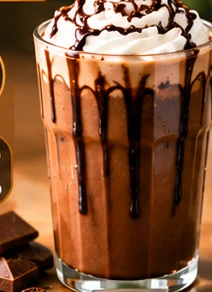
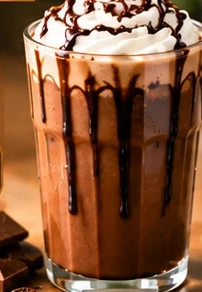
Fix image proportions: portrait photos for 20 landscape recipes, crop sheet artifacts, bump cache v12
Claude-Session: https://claude.ai/code/session_014cvqrTYUC7mZuBcgqQ8Jmv

diff --git a/index.html b/index.html
@@ -453,16 +453,16 @@ const R = [
    ing:[['สตรอว์เบอร์รีสด',80,'ก.'],['โซดาแช่เย็น',150,'มล.'],['น้ำมะนาว',15,'มล.'],['น้ำเชื่อม',15,'มล.'],['น้ำแข็ง',150,'ก.'],['เบอร์รีรวมสำหรับตกแต่ง',20,'ก.'],['ใบสะระแหน่',2,'ใบ']],
    steps:['บดสตรอว์เบอร์รีกับน้ำเชื่อม','เติมน้ำมะนาวและน้ำแข็งลงแก้ว','ค่อย ๆ เทโซดาเย็น','แต่งด้วยสตรอว์เบอร์รี เบอร์รีรวม และใบสะระแหน่'],photo:'strawberry-soda'},
 
-{"cat": "coffee", "th": "กาแฟครีมชีส", "en": "Cream Cheese Coffee", "time": "8 นาที", "level": "ปานกลาง", "eq": "E", "temp": "iced", "color": "#563521", "top": "#E4C4A7", "spec": "กาแฟเย็นเข้มข้น + ครีมชีสโฟม + ผงโกโก้", "photo": "cream-cheese-coffee", "ing": [["เอสเปรสโซช็อตคู่", 36, "ก."], ["น้ำเย็น", 100, "มล."], ["น้ำแข็ง", 130, "ก."], ["ครีมชีส", 30, "ก."], ["วิปปิงครีม", 40, "มล."], ["นมสด", 20, "มล."], ["น้ำตาลไอซิง", 10, "ก."], ["ผงโกโก้สำหรับโรย", 2, "ก."]], "steps": ["ตีครีมชีส วิปปิงครีม นม และน้ำตาลไอซิงให้ข้นเป็นโฟมนุ่ม", "เติมน้ำแข็งและน้ำเย็นลงแก้ว เทเอสเปรสโซลงไป", "ราดครีมชีสโฟมด้านบน แล้วโรยผงโกโก้ก่อนเสิร์ฟ"]},
-{"cat": "coffee", "th": "เอสเปรสโซโทนิคเลมอน", "en": "Lemon Rosemary Espresso Tonic", "time": "5 นาที", "level": "ง่าย", "eq": "E", "temp": "iced", "color": "#72522E", "top": "#D7B886", "spec": "เอสเปรสโซ + โทนิค + เลมอน + โรสแมรี", "photo": "lemon-rosemary-tonic", "ing": [["เอสเปรสโซช็อตคู่", 36, "ก."], ["โทนิคแช่เย็น", 150, "มล."], ["น้ำแข็ง", 130, "ก."], ["เลมอนฝาน", 1, "ชิ้น"], ["โรสแมรี", 1, "ก้าน"]], "steps": ["เติมน้ำแข็งลงแก้วใส", "เติมโทนิคเย็น แล้วใส่เลมอนฝาน", "สกัดเอสเปรสโซแล้วราดช้า ๆ ให้เกิดชั้นกาแฟด้านบน", "ตกแต่งด้วยก้านโรสแมรีก่อนเสิร์ฟ"]},
-{"cat": "blend", "th": "สตรอว์เบอร์รีนมสดปั่น", "en": "Strawberry Milkshake", "time": "5 นาที", "level": "ง่าย", "eq": "B", "temp": "blend", "color": "#D25B68", "top": "#F5C0BC", "spec": "สตรอว์เบอร์รี + นมสด + วิปครีม", "photo": "strawberry-milkshake", "ing": [["สตรอว์เบอร์รีสด", 120, "ก."], ["นมสด", 170, "มล."], ["น้ำแข็ง", 120, "ก."], ["น้ำเชื่อม", 15, "มล."], ["วิปครีม", 30, "ก."], ["สตรอว์เบอร์รีสำหรับตกแต่ง", 30, "ก."]], "steps": ["ปั่นสตรอว์เบอร์รี นม น้ำแข็ง และน้ำเชื่อมจนเนียน", "เทใส่แก้วให้ได้สีชมพูสลับนม", "บีบวิปครีมและตกแต่งด้วยสตรอว์เบอร์รีหั่นชิ้น"]},
-{"cat": "blend", "th": "ช็อกโกแลตกล้วยปั่น", "en": "Chocolate Banana Frappé", "time": "5 นาที", "level": "ง่าย", "eq": "B", "temp": "blend", "color": "#6A4639", "top": "#C5A07E", "spec": "กล้วยหอม + ช็อกโกแลต + นม + วิปครีม", "photo": "chocolate-banana-frappe", "ing": [["กล้วยหอม", 1, "ลูก"], ["ผงโกโก้", 15, "ก."], ["นมสด", 160, "มล."], ["ซอสช็อกโกแลต", 25, "ก."], ["น้ำแข็ง", 160, "ก."], ["วิปครีม", 25, "ก."], ["กล้วยหอมหั่นแว่นสำหรับตกแต่ง", 3, "ชิ้น"]], "steps": ["ปั่นกล้วยหอม โกโก้ นม ซอสช็อกโกแลต และน้ำแข็งจนข้นเนียน", "เทใส่แก้ว", "บีบวิปครีมและราดซอสช็อกโกแลต ตกแต่งด้วยกล้วยหั่นแว่น"]},
-{"cat": "soda", "th": "เสาวรสโซดา", "en": "Passion Fruit Soda", "time": "4 นาที", "level": "ง่าย", "eq": "N", "temp": "iced", "color": "#E8AC35", "top": "#F4D27B", "spec": "เสาวรส + โซดา + น้ำแข็ง + สะระแหน่", "photo": "passionfruit-soda", "ing": [["เนื้อเสาวรสสดพร้อมเมล็ด", 70, "ก."], ["โซดาแช่เย็น", 160, "มล."], ["น้ำเชื่อม", 15, "มล."], ["น้ำแข็ง", 150, "ก."], ["ใบสะระแหน่", 2, "ใบ"]], "steps": ["ใส่เนื้อเสาวรสและน้ำเชื่อมลงแก้ว", "เติมน้ำแข็งให้เต็มแก้ว", "รินโซดาเย็นลงไปช้า ๆ แล้วแต่งด้วยสะระแหน่"]},
-{"cat": "tea", "th": "ชาไทยครีมชีส", "en": "Thai Tea Cheese Foam", "time": "9 นาที", "level": "ปานกลาง", "eq": "N", "temp": "iced", "color": "#C87A36", "top": "#F6D2A2", "spec": "ชาไทยเย็นเข้มข้น + ครีมชีสโฟม", "photo": "thai-cheese-tea", "ing": [["ผงชาไทย", 20, "ก."], ["น้ำร้อน", 150, "มล."], ["นมข้นหวาน", 25, "ก."], ["น้ำแข็ง", 150, "ก."], ["ครีมชีส", 25, "ก."], ["วิปปิงครีม", 35, "มล."], ["นมสด", 15, "มล."], ["ผงชาไทยสำหรับโรย", 1, "ก."]], "steps": ["แช่ผงชาไทยในน้ำร้อน 4–5 นาทีแล้วกรอง", "ผสมนมข้นหวานลงในชา คนให้เข้ากันและพักให้คลายร้อน", "ตีครีมชีส วิปปิงครีม และนมสดจนข้นเป็นโฟม", "ใส่น้ำแข็ง เติมชาไทย ราดครีมชีสโฟมและโรยผงชาไทยบาง ๆ"]},
-{"cat": "tea", "th": "นมเผือกเย็น", "en": "Iced Taro Milk", "time": "5 นาที", "level": "ง่าย", "eq": "N", "temp": "iced", "color": "#AD8AC8", "top": "#E4D2EF", "spec": "เผือกบด + นมสด + น้ำแข็ง", "photo": "taro-milk", "ing": [["เผือกนึ่งสุกบดละเอียด", 80, "ก."], ["นมสด", 180, "มล."], ["น้ำเชื่อม", 15, "มล."], ["น้ำแข็ง", 150, "ก."]], "steps": ["นึ่งเผือกจนสุกนิ่ม บดให้ละเอียดและพักให้เย็น", "ผสมเผือกบดกับนมสดและน้ำเชื่อมให้เนียน", "เติมน้ำแข็งลงแก้วแล้วราดนมเผือกลงไป", "คนก่อนดื่มเพื่อให้เนื้อเผือกกระจายทั่วแก้ว"], "tip": "สีม่วงอ่อนตามธรรมชาติของเผือกแต่ละพันธุ์อาจต่างกัน ภาพประกอบเป็นภาพตัวอย่างการตกแต่ง"},
-{"cat": "tea", "th": "ชามะนาวน้ำผึ้ง", "en": "Honey Lemon Iced Tea", "time": "6 นาที", "level": "ง่าย", "eq": "N", "temp": "iced", "color": "#BE8A37", "top": "#F8D989", "spec": "ชาดำ + น้ำผึ้ง + มะนาว + สะระแหน่", "photo": "honey-lemon-tea", "ing": [["ชาดำ", 5, "ก."], ["น้ำร้อน", 150, "มล."], ["น้ำผึ้ง", 20, "มล."], ["น้ำมะนาว", 20, "มล."], ["น้ำแข็ง", 150, "ก."], ["เลมอนฝาน", 1, "ชิ้น"], ["ใบสะระแหน่", 2, "ใบ"]], "steps": ["ชงชาดำในน้ำร้อน 3–4 นาที แล้วกรอง", "ขณะชายังอุ่น เติมน้ำผึ้งและคนให้ละลาย", "ปล่อยให้ชาเย็นลงแล้วเติมน้ำมะนาว", "เทลงแก้วน้ำแข็ง แต่งด้วยเลมอนฝานและสะระแหน่"]},
-{"cat": "blend", "th": "โกโก้มินต์ปั่น", "en": "Mint Cocoa Frappé", "time": "5 นาที", "level": "ง่าย", "eq": "B", "temp": "blend", "color": "#6B4E3F", "top": "#D3B7A2", "spec": "โกโก้ + มินต์ + นม + วิปครีม", "photo": "mint-chocolate-frappe", "ing": [["ผงโกโก้", 20, "ก."], ["น้ำร้อน", 30, "มล."], ["นมสด", 150, "มล."], ["ไซรัปมินต์", 15, "มล."], ["น้ำแข็ง", 180, "ก."], ["วิปครีม", 25, "ก."], ["ใบสะระแหน่สำหรับตกแต่ง", 2, "ใบ"]], "steps": ["ละลายผงโกโก้กับน้ำร้อน แล้วพักให้เย็น", "ปั่นโกโก้ นม ไซรัปมินต์ และน้ำแข็งจนข้น", "เทใส่แก้ว บีบวิปครีมและแต่งด้วยใบสะระแหน่"]},
-{"cat": "soda", "th": "ลิ้นจี่โซดา", "en": "Lychee Soda", "time": "4 นาที", "level": "ง่าย", "eq": "N", "temp": "iced", "color": "#E69AB9", "top": "#F5CEE0", "spec": "ลิ้นจี่ + โซดา + น้ำแข็ง + มะนาว", "photo": "lychee-soda", "ing": [["เนื้อลิ้นจี่", 70, "ก."], ["น้ำลิ้นจี่", 40, "มล."], ["โซดาแช่เย็น", 150, "มล."], ["น้ำมะนาว", 10, "มล."], ["น้ำแข็ง", 150, "ก."], ["ใบสะระแหน่", 2, "ใบ"]], "steps": ["ใส่เนื้อลิ้นจี่และน้ำลิ้นจี่ลงแก้ว", "เติมน้ำแข็งและน้ำมะนาว", "รินโซดาเย็นลงช้า ๆ ให้เกิดฟอง", "ตกแต่งด้วยลิ้นจี่และใบสะระแหน่"]}
+{"cat": "coffee", "th": "กาแฟครีมชีส", "en": "Cream Cheese Coffee", "time": "8 นาที", "level": "ปานกลาง", "eq": "E", "temp": "iced", "color": "#563521", "top": "#E4C4A7", "spec": "กาแฟเย็นเข้มข้น + ครีมชีสโฟม + ผงโกโก้", "photo": "cream-cheese-coffee-portrait", "ing": [["เอสเปรสโซช็อตคู่", 36, "ก."], ["น้ำเย็น", 100, "มล."], ["น้ำแข็ง", 130, "ก."], ["ครีมชีส", 30, "ก."], ["วิปปิงครีม", 40, "มล."], ["นมสด", 20, "มล."], ["น้ำตาลไอซิง", 10, "ก."], ["ผงโกโก้สำหรับโรย", 2, "ก."]], "steps": ["ตีครีมชีส วิปปิงครีม นม และน้ำตาลไอซิงให้ข้นเป็นโฟมนุ่ม", "เติมน้ำแข็งและน้ำเย็นลงแก้ว เทเอสเปรสโซลงไป", "ราดครีมชีสโฟมด้านบน แล้วโรยผงโกโก้ก่อนเสิร์ฟ"]},
+{"cat": "coffee", "th": "เอสเปรสโซโทนิคเลมอน", "en": "Lemon Rosemary Espresso Tonic", "time": "5 นาที", "level": "ง่าย", "eq": "E", "temp": "iced", "color": "#72522E", "top": "#D7B886", "spec": "เอสเปรสโซ + โทนิค + เลมอน + โรสแมรี", "photo": "lemon-rosemary-tonic-portrait", "ing": [["เอสเปรสโซช็อตคู่", 36, "ก."], ["โทนิคแช่เย็น", 150, "มล."], ["น้ำแข็ง", 130, "ก."], ["เลมอนฝาน", 1, "ชิ้น"], ["โรสแมรี", 1, "ก้าน"]], "steps": ["เติมน้ำแข็งลงแก้วใส", "เติมโทนิคเย็น แล้วใส่เลมอนฝาน", "สกัดเอสเปรสโซแล้วราดช้า ๆ ให้เกิดชั้นกาแฟด้านบน", "ตกแต่งด้วยก้านโรสแมรีก่อนเสิร์ฟ"]},
+{"cat": "blend", "th": "สตรอว์เบอร์รีนมสดปั่น", "en": "Strawberry Milkshake", "time": "5 นาที", "level": "ง่าย", "eq": "B", "temp": "blend", "color": "#D25B68", "top": "#F5C0BC", "spec": "สตรอว์เบอร์รี + นมสด + วิปครีม", "photo": "strawberry-milkshake-portrait", "ing": [["สตรอว์เบอร์รีสด", 120, "ก."], ["นมสด", 170, "มล."], ["น้ำแข็ง", 120, "ก."], ["น้ำเชื่อม", 15, "มล."], ["วิปครีม", 30, "ก."], ["สตรอว์เบอร์รีสำหรับตกแต่ง", 30, "ก."]], "steps": ["ปั่นสตรอว์เบอร์รี นม น้ำแข็ง และน้ำเชื่อมจนเนียน", "เทใส่แก้วให้ได้สีชมพูสลับนม", "บีบวิปครีมและตกแต่งด้วยสตรอว์เบอร์รีหั่นชิ้น"]},
+{"cat": "blend", "th": "ช็อกโกแลตกล้วยปั่น", "en": "Chocolate Banana Frappé", "time": "5 นาที", "level": "ง่าย", "eq": "B", "temp": "blend", "color": "#6A4639", "top": "#C5A07E", "spec": "กล้วยหอม + ช็อกโกแลต + นม + วิปครีม", "photo": "chocolate-banana-frappe-portrait", "ing": [["กล้วยหอม", 1, "ลูก"], ["ผงโกโก้", 15, "ก."], ["นมสด", 160, "มล."], ["ซอสช็อกโกแลต", 25, "ก."], ["น้ำแข็ง", 160, "ก."], ["วิปครีม", 25, "ก."], ["กล้วยหอมหั่นแว่นสำหรับตกแต่ง", 3, "ชิ้น"]], "steps": ["ปั่นกล้วยหอม โกโก้ นม ซอสช็อกโกแลต และน้ำแข็งจนข้นเนียน", "เทใส่แก้ว", "บีบวิปครีมและราดซอสช็อกโกแลต ตกแต่งด้วยกล้วยหั่นแว่น"]},
+{"cat": "soda", "th": "เสาวรสโซดา", "en": "Passion Fruit Soda", "time": "4 นาที", "level": "ง่าย", "eq": "N", "temp": "iced", "color": "#E8AC35", "top": "#F4D27B", "spec": "เสาวรส + โซดา + น้ำแข็ง + สะระแหน่", "photo": "passionfruit-soda-portrait", "ing": [["เนื้อเสาวรสสดพร้อมเมล็ด", 70, "ก."], ["โซดาแช่เย็น", 160, "มล."], ["น้ำเชื่อม", 15, "มล."], ["น้ำแข็ง", 150, "ก."], ["ใบสะระแหน่", 2, "ใบ"]], "steps": ["ใส่เนื้อเสาวรสและน้ำเชื่อมลงแก้ว", "เติมน้ำแข็งให้เต็มแก้ว", "รินโซดาเย็นลงไปช้า ๆ แล้วแต่งด้วยสะระแหน่"]},
+{"cat": "tea", "th": "ชาไทยครีมชีส", "en": "Thai Tea Cheese Foam", "time": "9 นาที", "level": "ปานกลาง", "eq": "N", "temp": "iced", "color": "#C87A36", "top": "#F6D2A2", "spec": "ชาไทยเย็นเข้มข้น + ครีมชีสโฟม", "photo": "thai-cheese-tea-portrait", "ing": [["ผงชาไทย", 20, "ก."], ["น้ำร้อน", 150, "มล."], ["นมข้นหวาน", 25, "ก."], ["น้ำแข็ง", 150, "ก."], ["ครีมชีส", 25, "ก."], ["วิปปิงครีม", 35, "มล."], ["นมสด", 15, "มล."], ["ผงชาไทยสำหรับโรย", 1, "ก."]], "steps": ["แช่ผงชาไทยในน้ำร้อน 4–5 นาทีแล้วกรอง", "ผสมนมข้นหวานลงในชา คนให้เข้ากันและพักให้คลายร้อน", "ตีครีมชีส วิปปิงครีม และนมสดจนข้นเป็นโฟม", "ใส่น้ำแข็ง เติมชาไทย ราดครีมชีสโฟมและโรยผงชาไทยบาง ๆ"]},
+{"cat": "tea", "th": "นมเผือกเย็น", "en": "Iced Taro Milk", "time": "5 นาที", "level": "ง่าย", "eq": "N", "temp": "iced", "color": "#AD8AC8", "top": "#E4D2EF", "spec": "เผือกบด + นมสด + น้ำแข็ง", "photo": "taro-milk-portrait", "ing": [["เผือกนึ่งสุกบดละเอียด", 80, "ก."], ["นมสด", 180, "มล."], ["น้ำเชื่อม", 15, "มล."], ["น้ำแข็ง", 150, "ก."]], "steps": ["นึ่งเผือกจนสุกนิ่ม บดให้ละเอียดและพักให้เย็น", "ผสมเผือกบดกับนมสดและน้ำเชื่อมให้เนียน", "เติมน้ำแข็งลงแก้วแล้วราดนมเผือกลงไป", "คนก่อนดื่มเพื่อให้เนื้อเผือกกระจายทั่วแก้ว"], "tip": "สีม่วงอ่อนตามธรรมชาติของเผือกแต่ละพันธุ์อาจต่างกัน ภาพประกอบเป็นภาพตัวอย่างการตกแต่ง"},
+{"cat": "tea", "th": "ชามะนาวน้ำผึ้ง", "en": "Honey Lemon Iced Tea", "time": "6 นาที", "level": "ง่าย", "eq": "N", "temp": "iced", "color": "#BE8A37", "top": "#F8D989", "spec": "ชาดำ + น้ำผึ้ง + มะนาว + สะระแหน่", "photo": "honey-lemon-tea-portrait", "ing": [["ชาดำ", 5, "ก."], ["น้ำร้อน", 150, "มล."], ["น้ำผึ้ง", 20, "มล."], ["น้ำมะนาว", 20, "มล."], ["น้ำแข็ง", 150, "ก."], ["เลมอนฝาน", 1, "ชิ้น"], ["ใบสะระแหน่", 2, "ใบ"]], "steps": ["ชงชาดำในน้ำร้อน 3–4 นาที แล้วกรอง", "ขณะชายังอุ่น เติมน้ำผึ้งและคนให้ละลาย", "ปล่อยให้ชาเย็นลงแล้วเติมน้ำมะนาว", "เทลงแก้วน้ำแข็ง แต่งด้วยเลมอนฝานและสะระแหน่"]},
+{"cat": "blend", "th": "โกโก้มินต์ปั่น", "en": "Mint Cocoa Frappé", "time": "5 นาที", "level": "ง่าย", "eq": "B", "temp": "blend", "color": "#6B4E3F", "top": "#D3B7A2", "spec": "โกโก้ + มินต์ + นม + วิปครีม", "photo": "mint-chocolate-frappe-portrait", "ing": [["ผงโกโก้", 20, "ก."], ["น้ำร้อน", 30, "มล."], ["นมสด", 150, "มล."], ["ไซรัปมินต์", 15, "มล."], ["น้ำแข็ง", 180, "ก."], ["วิปครีม", 25, "ก."], ["ใบสะระแหน่สำหรับตกแต่ง", 2, "ใบ"]], "steps": ["ละลายผงโกโก้กับน้ำร้อน แล้วพักให้เย็น", "ปั่นโกโก้ นม ไซรัปมินต์ และน้ำแข็งจนข้น", "เทใส่แก้ว บีบวิปครีมและแต่งด้วยใบสะระแหน่"]},
+{"cat": "soda", "th": "ลิ้นจี่โซดา", "en": "Lychee Soda", "time": "4 นาที", "level": "ง่าย", "eq": "N", "temp": "iced", "color": "#E69AB9", "top": "#F5CEE0", "spec": "ลิ้นจี่ + โซดา + น้ำแข็ง + มะนาว", "photo": "lychee-soda-portrait", "ing": [["เนื้อลิ้นจี่", 70, "ก."], ["น้ำลิ้นจี่", 40, "มล."], ["โซดาแช่เย็น", 150, "มล."], ["น้ำมะนาว", 10, "มล."], ["น้ำแข็ง", 150, "ก."], ["ใบสะระแหน่", 2, "ใบ"]], "steps": ["ใส่เนื้อลิ้นจี่และน้ำลิ้นจี่ลงแก้ว", "เติมน้ำแข็งและน้ำมะนาว", "รินโซดาเย็นลงช้า ๆ ให้เกิดฟอง", "ตกแต่งด้วยลิ้นจี่และใบสะระแหน่"]}
 
 ].map((r, i) => ({ ...r, id: i + 1, unit: r.unit || 'แก้ว' }));
 
@@ -475,9 +475,9 @@ let favs = new Set(store.get('favs', []));
 let myEq = store.get('myEq', []);
 
 const ORIGINAL_IMAGE_MAP = {"1": "assets/drinks/espresso.webp", "3": "assets/drinks/cappuccino.webp", "4": "assets/drinks/latte-hot.webp", "7": "assets/drinks/caramel-macchiato.webp", "15": "assets/drinks/thai-milk-tea.webp", "16": "assets/drinks/matcha-latte.webp"};
-const NEW_PHOTO_MAP = {"2": "assets/drinks/americano-hot.webp", "5": "assets/drinks/flat-white.webp", "6": "assets/drinks/mocha-hot.webp", "8": "assets/drinks/espresso-tonic.webp", "9": "assets/drinks/dirty-coffee.webp", "10": "assets/drinks/coconut-americano.webp", "11": "assets/drinks/affogato.webp", "12": "assets/drinks/cold-brew.webp", "13": "assets/drinks/pour-over.webp", "14": "assets/drinks/thai-iced-coffee.webp", "17": "assets/drinks/matcha-dirty.webp", "18": "assets/drinks/hojicha-latte.webp", "19": "assets/drinks/london-fog.webp", "20": "assets/drinks/chai-latte.webp", "21": "assets/drinks/iced-lemon-tea.webp", "22": "assets/drinks/peach-oolong.webp", "23": "assets/drinks/mocha-frappe.webp", "24": "assets/drinks/caramel-frappe.webp", "25": "assets/drinks/matcha-frappe-photo-v11.webp", "26": "assets/drinks/cocoa-frappe-photo-v11.webp", "27": "assets/drinks/mango-smoothie-photo-v11.webp", "28": "assets/drinks/strawberry-banana-photo-v11.webp", "29": "assets/drinks/coffee-banana-photo-v11.webp", "30": "assets/drinks/avocado-coffee-photo-v11.webp"};
+const NEW_PHOTO_MAP = {"2": "assets/drinks/americano-hot-portrait.webp", "5": "assets/drinks/flat-white-portrait.webp", "6": "assets/drinks/mocha-hot-portrait.webp", "8": "assets/drinks/espresso-tonic-portrait.webp", "9": "assets/drinks/dirty-coffee-portrait.webp", "10": "assets/drinks/coconut-americano-portrait.webp", "11": "assets/drinks/affogato-portrait.webp", "12": "assets/drinks/cold-brew-portrait.webp", "13": "assets/drinks/pour-over-portrait.webp", "14": "assets/drinks/thai-iced-coffee-portrait.webp", "17": "assets/drinks/matcha-dirty.webp", "18": "assets/drinks/hojicha-latte.webp", "19": "assets/drinks/london-fog.webp", "20": "assets/drinks/chai-latte.webp", "21": "assets/drinks/iced-lemon-tea.webp", "22": "assets/drinks/peach-oolong.webp", "23": "assets/drinks/mocha-frappe.webp", "24": "assets/drinks/caramel-frappe.webp", "25": "assets/drinks/matcha-frappe-photo-v11.webp", "26": "assets/drinks/cocoa-frappe-photo-v11.webp", "27": "assets/drinks/mango-smoothie-photo-v11.webp", "28": "assets/drinks/strawberry-banana-photo-v11.webp", "29": "assets/drinks/coffee-banana-photo-v11.webp", "30": "assets/drinks/avocado-coffee-photo-v11.webp"};
 const ILLUSTRATED_IMAGE_MAP = {"2": "assets/drinks/art-americano.svg", "5": "assets/drinks/art-flat-white.svg", "6": "assets/drinks/art-mocha.svg", "8": "assets/drinks/art-espresso-tonic.svg", "9": "assets/drinks/art-dirty-coffee.svg", "10": "assets/drinks/art-coconut-americano.svg", "11": "assets/drinks/art-affogato.svg", "12": "assets/drinks/art-cold-brew.svg", "13": "assets/drinks/art-pour-over.svg", "14": "assets/drinks/art-thai-iced-coffee.svg", "17": "assets/drinks/art-dirty-matcha.svg", "18": "assets/drinks/art-hojicha-latte.svg", "19": "assets/drinks/art-london-fog.svg", "20": "assets/drinks/art-chai-latte.svg", "21": "assets/drinks/art-iced-lemon-tea.svg", "22": "assets/drinks/art-peach-oolong.svg", "23": "assets/drinks/art-mocha-frapp.svg", "24": "assets/drinks/art-caramel-frapp.svg", "25": "assets/drinks/art-matcha-frapp.svg", "26": "assets/drinks/art-cocoa-frapp.svg", "27": "assets/drinks/art-mango-smoothie.svg", "28": "assets/drinks/art-strawberry-banana.svg", "29": "assets/drinks/art-coffee-banana.svg", "30": "assets/drinks/art-avocado-coffee.svg"};
-function recipeImage(r) { const path = r.photo ? `assets/drinks/${r.photo}.webp` : NEW_PHOTO_MAP[r.id] || ORIGINAL_IMAGE_MAP[r.id] || ILLUSTRATED_IMAGE_MAP[r.id] || "assets/drinks/matcha-latte.webp"; return path + "?v=11"; }
+function recipeImage(r) { const path = r.photo ? `assets/drinks/${r.photo}.webp` : NEW_PHOTO_MAP[r.id] || ORIGINAL_IMAGE_MAP[r.id] || ILLUSTRATED_IMAGE_MAP[r.id] || "assets/drinks/matcha-latte.webp"; return path + "?v=12"; }
 
 /* ---------- ภาพแก้ว ---------- */
 function cup(r, w) {

diff --git a/sw.js b/sw.js
@@ -1,4 +1,4 @@
-const CACHE='small-lovers-v11-20261105';
+const CACHE='small-lovers-v12-20261105';
 const SHELL=['./','./index.html','./manifest.webmanifest','./favicon.ico'];
 self.addEventListener('install',e=>e.waitUntil(caches.open(CACHE).then(c=>c.addAll(SHELL)).then(()=>self.skipWaiting())));
 self.addEventListener('activate',e=>e.waitUntil(caches.keys().then(k=>Promise.all(k.filter(x=>x!==CACHE).map(x=>caches.delete(x)))).then(()=>self.clients.claim())));
